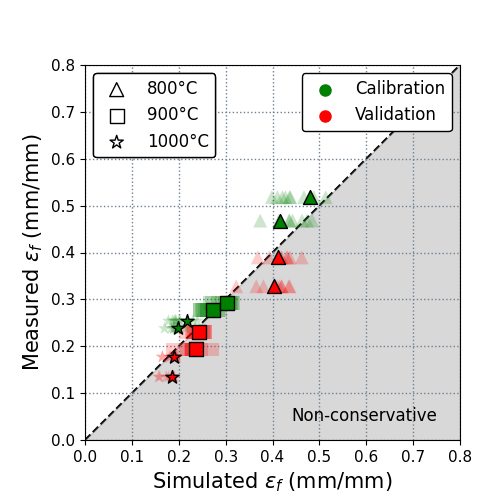
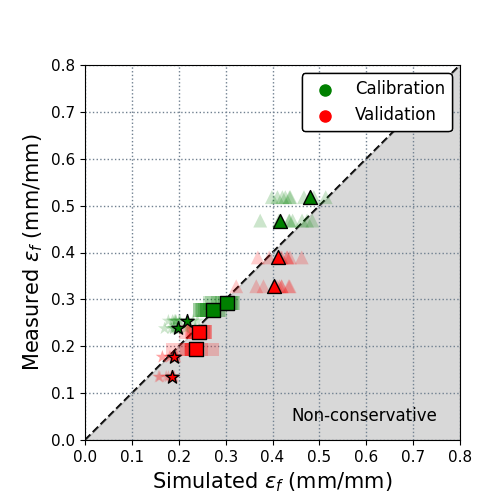
full evpwdb scripts

Changed region(s): [[0.18, 0.12, 0.45, 0.33]]

diff --git a/scripts/evpwdb/evpwdb_1000_st.py b/scripts/evpwdb/evpwdb_1000_st.py
@@ -1,0 +1,48 @@
+import sys; sys.path += ["../.."]
+from moga_neml.interface import Interface
+
+itf = Interface("evpwdb 1000 st", input_path="../data", output_path="../results")
+
+itf.define_model("evpwdb")
+
+itf.init_param("c_0", 7.2439)
+itf.init_param("c_1", 50.84)
+itf.init_param("t_0", 271.92)
+itf.init_param("t_1", 601.52)
+itf.init_param("c_n", 1.5581)
+itf.init_param("t_n", 9.5121)
+
+itf.read_data("creep/inl_1/AirBase_1000_16_G18.csv")
+itf.remove_oxidation()
+itf.add_error("area", "time", "strain")
+itf.add_error("end", "time")
+itf.add_error("end", "strain")
+
+itf.read_data("creep/inl_1/AirBase_1000_13_G30.csv")
+itf.remove_oxidation(0.1, 0.7)
+itf.add_error("area", "time", "strain")
+itf.add_error("end", "time")
+itf.add_error("end", "strain")
+
+itf.read_data("creep/inl_1/AirBase_1000_12_G48.csv")
+itf.remove_oxidation()
+itf.add_error("area", "time", "strain")
+itf.add_error("end", "time")
+itf.add_error("end", "strain")
+
+itf.read_data("creep/inl_1/AirBase_1000_11_G39.csv")
+itf.remove_oxidation(0.1, 0.7)
+itf.add_error("area", "time", "strain")
+itf.add_error("end", "time")
+itf.add_error("end", "strain")
+
+itf.read_data("tensile/inl/AirBase_1000_D12.csv")
+itf.add_error("area", "strain", "stress")
+itf.add_error("yield_point", yield_stress=90)
+
+itf.reduce_errors("square_average")
+itf.reduce_objectives("square_average")
+
+itf.plot_experimental()
+itf.set_recorder(10, plot_opt=True, plot_loss=True)
+itf.optimise(10000, 100, 50, 0.8, 0.01)

diff --git a/scripts/__other__/performance/plot_perf.py b/scripts/__other__/performance/plot_perf.py
@@ -452,12 +452,12 @@ else:
 plt.gca().add_artist(legend)
 
 # Prepare legend for data temperature
-t800  = plt.scatter([], [], color="none", edgecolor="black", linewidth=LINEWIDTH,  label="800°C",  marker="^", s=MARKER_SIZE**2)
-t900  = plt.scatter([], [], color="none", edgecolor="black", linewidth=LINEWIDTH,  label="900°C",  marker="s", s=MARKER_SIZE**2)
-t1000 = plt.scatter([], [], color="none", edgecolor="black", linewidth=LINEWIDTH,  label="1000°C", marker="*", s=MARKER_SIZE**2)
-legend = plt.legend(handles=[t800, t900, t1000], framealpha=1, edgecolor="black",
-                    fancybox=True, facecolor="white", fontsize=12, bbox_transform=(0.75, 0.75))
-plt.gca().add_artist(legend)
+# t800  = plt.scatter([], [], color="none", edgecolor="black", linewidth=LINEWIDTH,  label="800°C",  marker="^", s=MARKER_SIZE**2)
+# t900  = plt.scatter([], [], color="none", edgecolor="black", linewidth=LINEWIDTH,  label="900°C",  marker="s", s=MARKER_SIZE**2)
+# t1000 = plt.scatter([], [], color="none", edgecolor="black", linewidth=LINEWIDTH,  label="1000°C", marker="*", s=MARKER_SIZE**2)
+# legend = plt.legend(handles=[t800, t900, t1000], framealpha=1, edgecolor="black",
+#                     fancybox=True, facecolor="white", fontsize=12, bbox_transform=(0.75, 0.75))
+# plt.gca().add_artist(legend)
 
 # Format everything else and save
 plt.gca().set_position([0.17, 0.12, 0.75, 0.75])

diff --git a/scripts/evpwdb/evpwdb_900_st.py b/scripts/evpwdb/evpwdb_900_st.py
@@ -1,0 +1,38 @@
+import sys; sys.path += ["../.."]
+from moga_neml.interface import Interface
+
+itf = Interface("evpwdb 900 st", input_path="../data", output_path="../results")
+
+itf.define_model("evpwdb")
+
+itf.read_data("creep/inl_1/AirBase_900_36_G22.csv")
+itf.add_error("area", "time", "strain")
+itf.add_error("end", "time")
+itf.add_error("end", "strain")
+
+itf.read_data("creep/inl_1/AirBase_900_31_G50.csv")
+itf.add_error("area", "time", "strain")
+itf.add_error("end", "time")
+itf.add_error("end", "strain")
+
+itf.read_data("creep/inl_1/AirBase_900_28_G45.csv")
+itf.add_error("area", "time", "strain")
+itf.add_error("end", "time")
+itf.add_error("end", "strain")
+
+itf.read_data("creep/inl_1/AirBase_900_26_G59.csv")
+itf.remove_oxidation()
+itf.add_error("area", "time", "strain")
+itf.add_error("end", "time")
+itf.add_error("end", "strain")
+
+itf.read_data("tensile/inl/AirBase_900_D10.csv")
+itf.add_error("area", "strain", "stress")
+itf.add_error("yield_point", yield_stress=164)
+
+itf.reduce_errors("square_average")
+itf.reduce_objectives("square_average")
+
+itf.plot_experimental()
+itf.set_recorder(10, plot_opt=True, plot_loss=True)
+itf.optimise(10000, 100, 50, 0.8, 0.01)

diff --git a/scripts/evpwdb/evpwdb_800_st.py b/scripts/evpwdb/evpwdb_800_st.py
@@ -1,0 +1,37 @@
+import sys; sys.path += ["../.."]
+from moga_neml.interface import Interface
+
+itf = Interface("evpwdb 800 st", input_path="../data", output_path="../results")
+
+itf.define_model("evpwdb")
+
+itf.read_data("creep/inl_1/AirBase_800_80_G25.csv")
+itf.add_error("area", "time", "strain")
+itf.add_error("end", "time")
+itf.add_error("end", "strain")
+
+itf.read_data("creep/inl_1/AirBase_800_70_G44.csv")
+itf.add_error("area", "time", "strain")
+itf.add_error("end", "time")
+itf.add_error("end", "strain")
+
+itf.read_data("creep/inl_1/AirBase_800_65_G33.csv")
+itf.add_error("area", "time", "strain")
+itf.add_error("end", "time")
+itf.add_error("end", "strain")
+
+itf.read_data("creep/inl_1/AirBase_800_60_G32.csv")
+itf.add_error("area", "time", "strain")
+itf.add_error("end", "time")
+itf.add_error("end", "strain")
+
+itf.read_data("tensile/inl/AirBase_800_D7.csv")
+itf.add_error("area", "strain", "stress")
+itf.add_error("yield_point", yield_stress=291)
+
+itf.reduce_errors("square_average")
+itf.reduce_objectives("square_average")
+
+itf.plot_experimental()
+itf.set_recorder(1, plot_opt=True, plot_loss=True)
+itf.optimise(500, 100, 50, 0.8, 0.01)
